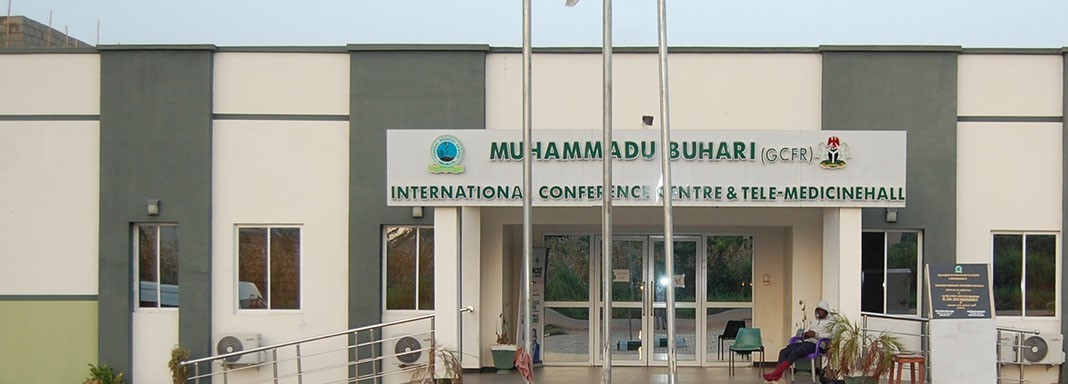
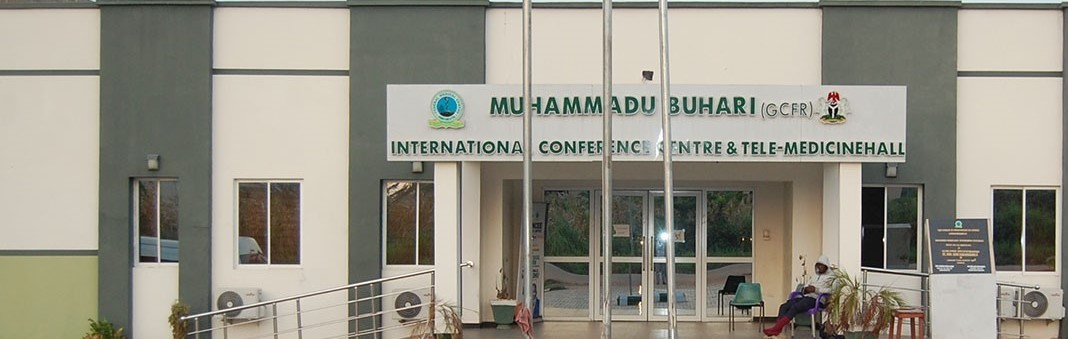
fixed heigt of swiper&cropped images to fit in

diff --git a/style.css b/style.css
@@ -103,37 +103,14 @@ body
     background: green;
     color: white; 
     width: auto;
-    
-    border-radius: 15px;
+    border-radius: 10px;
   }
   .header h1 {
     font-size: 80px;
+    border-bottom: 50px;
   }
-  .navbar a.right {
-    float: right;
-  }
-  .navbar {
-    overflow: hidden;
-    background-color: white;
-  }
-  .navbar a {
-    float: left;
-    display: block;
-    color: green;
-    text-align: center;
-    padding: 14px 20px;
-    text-decoration: none;
-  }
-    .navbar a:hover {
-        background-color: gray;
-        color: white;
-  }
-  .row {  
-    display: flex;
-    flex-wrap: wrap;
-  }
-  .container{width: 95%%;
-    height: 100vh;
+  .container{width: 100%;
+    height: 60vh;
     background: white; 
     display: flex;
     align-items: center;
@@ -142,18 +119,18 @@ body
   .swiper{
     width: 100%;
     height: fit-content;
-    margin-top: 50px;
+    margin-top: 100px;
   }
   .swiper-slide img{
     width: 100%;
     border: 2px solid green;
-    border-radius: 15px;
+    border-radius: 10px;
   }
-  .swiper .swiper-button-prev. .swiper-button-next{
-    color: rgb(17, 178, 17);
+  .swiper .swiper-button-prev, .swiper .swiper-button-next{
+    color: whitesmoke;
   }
-  .swiper.swiper-pagination-bullet-active{
-    color: white;
+  .swiper .swiper-pagination-bullet-active{
+    color: green;
   }
   
 @media screen (max-width:500px;) {

diff --git a/index.html b/index.html
@@ -56,12 +56,6 @@
         <marquee behavior="" direction="left"><h1>WELCOME TO EMR!!!</h1></marquee>
         <p>bienvenue sur le site Lafinesse Tech, nous avons hâte de mieux vous servir.</p>
   </div>
-        <div class="navbar">
-            <a href="#">Management</a>
-            <a href="#">Sales</a>
-            <a href="#">Marketing</a>
-            <a href="#" class="right">Request</a>
-        </div>
         <div class="container">
             <div class="swiper">
                 <!-- Additional required wrapper -->
